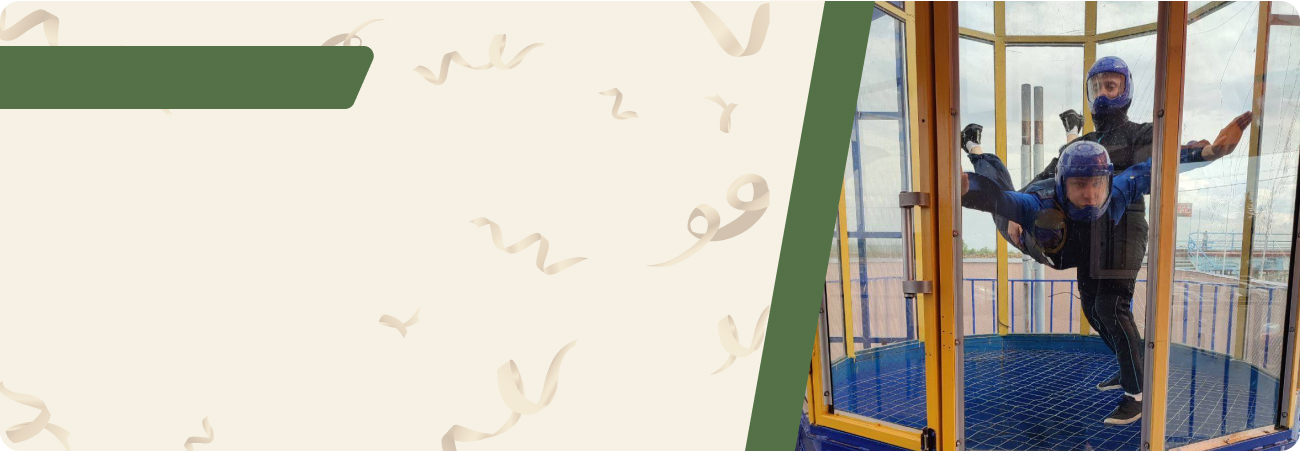
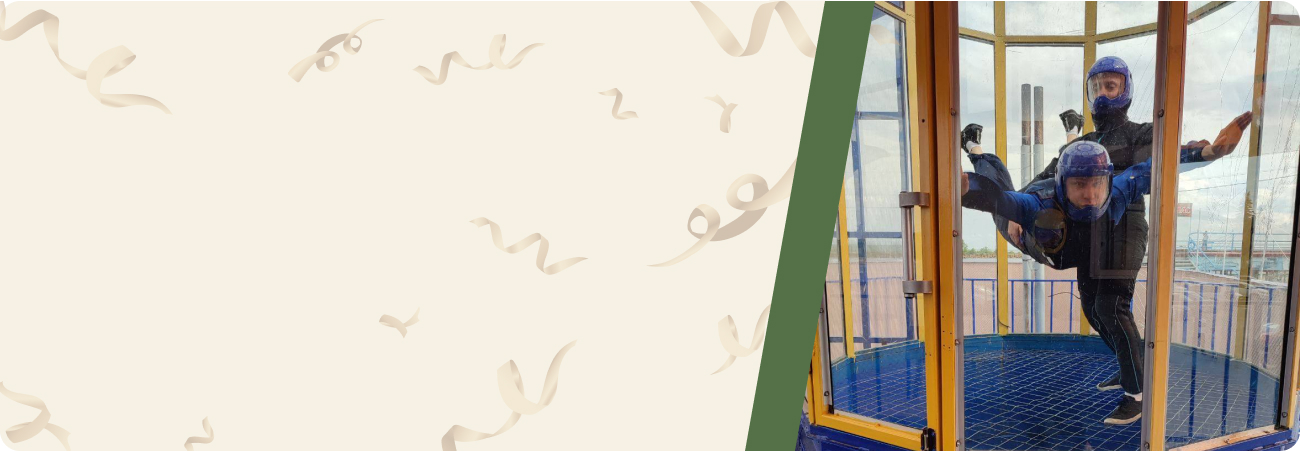
Correction Action

diff --git a/src/html/chunk/action.html b/src/html/chunk/action.html
@@ -11,7 +11,10 @@
 						style="background-image: url(./img/action/action-slide-1.jpg)"
 					>
 						<div class="action__inner">
-							<h3 class="action__subtitle title">Акция месяца</h3>
+							<h3 class="action__subtitle title">
+								Акция месяца
+								<div class="action__inner-img"></div>
+							</h3>
 							<h2 class="action__title title">
 								полёт в&nbsp;аэротрубе для двоих!
 							</h2>
@@ -31,13 +34,14 @@
 						style="background-image: url(./img/action/action-slide-2.jpg)"
 					>
 						<div class="action__inner">
-							<h3 class="action__subtitle title">Акция месяца</h3>
-							<h2 class="action__title action__title--push title">
-								Конная прогулка
-							</h2>
-							<div class="action__inner-price action__inner-price--already">
-								<span class="action__descr">990&nbsp;&#8381;</span>
-								<span class="action__price">490&nbsp;&#8381;</span>
+							<h3 class="action__subtitle title">
+								Акция месяца
+								<div class="action__inner-img"></div>
+							</h3>
+							<h2 class="action__title title">Велопрогулка с&nbsp;пикником</h2>
+							<div class="action__inner-price">
+								<span class="action__descr">3&nbsp;000&nbsp;&#8381;</span>
+								<span class="action__price">2&nbsp;300&nbsp;&#8381;</span>
 							</div>
 							<a class="action__link button modal-link link-reset" href="#modal"
 								>Заказать впечатление</a

diff --git a/src/sass/chunk/_action.sass b/src/sass/chunk/_action.sass
@@ -6,8 +6,9 @@
   &__slide
     height: 100%
     background-size: cover
-    background-position: center
+    background-position: left
     background-repeat: no-repeat
+    border-radius: 20px
 
   &__inner
     padding-top: 60px
@@ -24,13 +25,25 @@
     font-size: 30px
     line-height: 34px
     color: $white
+    z-index: 1
+    position: relative
+
+  &__inner-img
+    width: 380px
+    height: 65px
+    background-image: url(../img/action/action-decoration-line.jpg)
+    background-position: center
+    background-size: cover
+    background-repeat: no-repeat
+    position: absolute
+    z-index: -1
+    top: -50%
+    left: -60px
 
   &__title
     margin-bottom: 25px
     font-size: 50px
     line-height: 54px
-    &--push
-      margin-bottom: 80px
 
   &__inner-price
     display: flex
@@ -38,8 +51,6 @@
     max-width: 270px
     width: 100%
     margin-bottom: 40px
-    &--already
-      max-width: 210px
 
   &__descr
     font-family: "Montserrat-Medium", sans-serif
